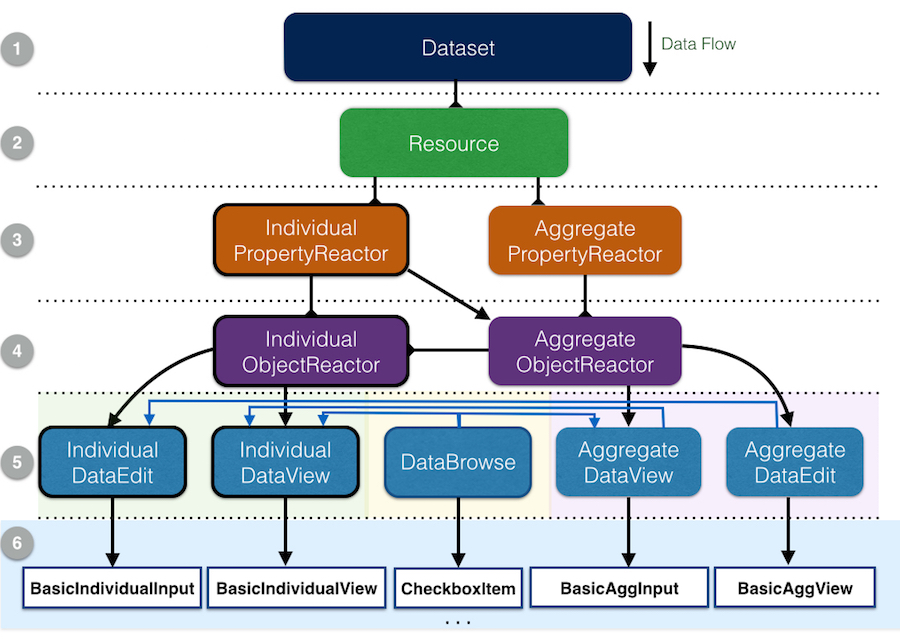
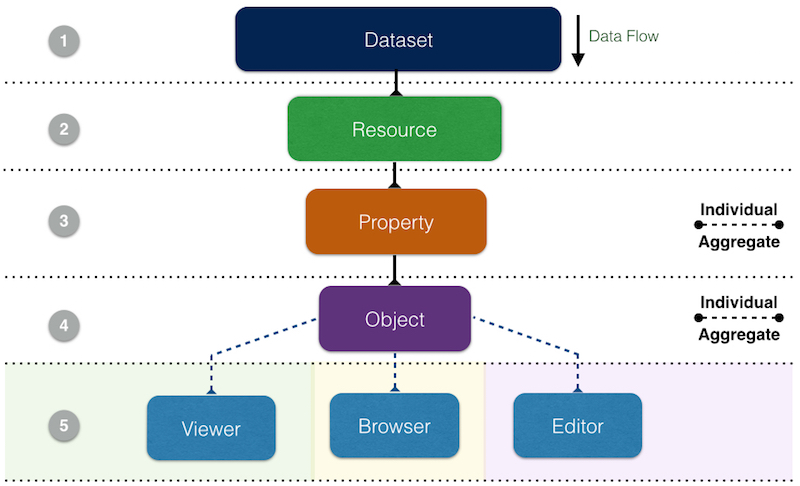
started new changes

diff --git a/docs/architecture.html b/docs/architecture.html
@@ -17,7 +17,7 @@ LD-R follows the best practices for single directional data flow proposed by <a 
 <br/>
 <div>
     <h4>
-        LD-R consists of 6 main component layers:
+        LD-R consists of 5 main component layers:
     </h4>
     <div class="ui divided list">
         <div class="item">
@@ -73,22 +73,10 @@ LD-R follows the best practices for single directional data flow proposed by <a 
               <div class="header ui circular labels">
                     <a class="ui label">
                       5
-                  </a> View/Edit/Browse Selector
+                  </a> Viewer/Editor/Browser
               </div>
             <div class="description">
                 The task of this layer is to select the right component to view, edit or browse object value(s). It will be the hub for connecting new components to our platform.
-            </div>
-          </div>
-        </div>
-        <div class="item">
-          <div class="content">
-              <div class="header ui circular labels">
-                    <a class="ui label">
-                      6
-                  </a> View/Edit/Browse
-              </div>
-            <div class="description">
-                This layer is responsible for the final presentation of the components. It will be the terminal for user-generated components.
             </div>
           </div>
         </div>

diff --git a/docs/configFacets.html b/docs/configFacets.html
@@ -30,7 +30,7 @@ Config: Facets
     </tr>
 </table>
 <p>
-    After defining the above list of facets, users can define specific configs for each facet property by using the URI of the property. These configs are similar to normal <a href="/docs/configProperties.html">properties config</a> and can overwrite them in the faceted browser. Main facets configs are as following:
+    After defining the above list of facets, users can define specific configs for each facet property by using the URI of the property. These configs are similar to normal <a href="/docs/configReactors.html">reactors config</a> and can overwrite them in the faceted browser. Main facets configs are as following:
 </p>
 <table class="ui celled table">
   <thead>
@@ -42,8 +42,8 @@ Config: Facets
   </thead>
   <tbody>
     <tr>
-      <td class="warning">browserViewer</td>
-      <td> Specifies which view component to use to render the values of a facet property.</td>
+      <td class="warning">objectBrowser</td>
+      <td> Specifies which browser component to use to render the values of a facet property.</td>
       <td>['TwoLetterCountryView']</td>
     </tr>
     <tr>

diff --git a/index.html b/index.html
@@ -6,8 +6,8 @@ path: index.html
 
 <div class="page-header">
   <h1 class="ui dividing header">Linked Data Reactor</h1>
+  <img class="ui image animated centered bounceIn" src="/assets/img/ldr.jpg" alt="ld-reactor" />
   <p>
-      <img class="ui left floated image animated bounceIn" src="/assets/img/ld-reactor.gif" alt="ld-reactor" />
       Linked Data Reactor (LD-Reactor or LD-R) is a framework to develop <b>reactive</b> and <b>reusable</b> User Interface components for <b>Linked Data applications</b>. LD-Reactor utilizes Facebook's <a href="https://facebook.github.io/react/">ReactJS</a> components, <a href="https://facebook.github.io/flux">Flux</a> architecture and Yahoo!'s <a href="http://fluxible.io/">Fluxible</a> framework for isomorphic Web applications.
       It also exploits <a href="http://semantic-ui.com/"> Semantic-UI </a> framework for flexible UI themes.
       LD-Reactor aims to apply the idea of component-based application development into <a href="http://www.w3.org/RDF/">RDF</a> data model hence enhancing current user interfaces to view, browse and edit <a href="http://linkeddata.org/">Linked Data</a>.

diff --git a/docs/quickstart.html b/docs/quickstart.html
@@ -20,10 +20,13 @@ Quick Start
 
 <h2>
 <a id="configuration" class="anchor" href="#configuration" aria-hidden="true"><span class="octicon octicon-link"></span></a>Configuration</h2>
+<p>Fill in general settings for your application at <code class="ui label">configs/general.js</code>.</p>
 
 <p>Fill in appropriate values for server port, URLs of your SPARQL endpoint and DBpedia lookup service at <code class="ui label">configs/server.js</code>.</p>
 
-<p>Fll in appropriate settings for your UI reactors at <code class="ui label">configs/reactor.js</code>.</p>
+<p>Fill in appropriate settings for your UI reactors at <code class="ui label">configs/reactor.js</code>.</p>
+
+<p>Fill in appropriate settings for the faceted browser at <code class="ui label">configs/facets.js</code>.</p>
 
 <h2>
 <a id="run-in-production-mode" class="anchor" href="#run-in-production-mode" aria-hidden="true"><span class="octicon octicon-link"></span></a>Run in Production Mode</h2>

diff --git a/docs/configGeneral.html b/docs/configGeneral.html
@@ -36,11 +36,6 @@ Config: General
       <td>['http://dbpedia.org']</td>
     </tr>
     <tr >
-      <td class="positive">maxNumberOfResourcesOnPage</td>
-      <td>Maximum number of resources on page.</td>
-      <td>[20]</td>
-    </tr>
-    <tr >
       <td class="positive">enableAuthentication</td>
       <td>If set to '1', will prevent access to datasets unless user is registered and logged in to the system.</td>
       <td>0</td>
@@ -61,9 +56,9 @@ Config: General
       <td>0</td>
     </tr>
     <tr >
-      <td class="positive">dynamicResourceDomain</td>
-      <td>Used as domain name when creating random resource URIs.</td>
-      <td>http://example.com</td>
+      <td class="positive">baseResourceDomain</td>
+      <td>The domain name under which basic dynamic resources and user resources will be defined.</td>
+      <td>http://ld-r.org</td>
     </tr>
     <tr >
       <td class="positive">enableLogs</td>

diff --git a/_layouts/default.html b/_layouts/default.html
@@ -51,9 +51,9 @@
                   <div class="item">
                     Configs
                     <div class="menu">
-                        <a class="item" href="/docs/configServer.html" data-section="configServer">Server</a>
                         <a class="item" href="/docs/configGeneral.html" data-section="configGeneral">General</a>
-                        <a class="item" href="/docs/configProperties.html" data-section="configProperties">Properties</a>
+                        <a class="item" href="/docs/configServer.html" data-section="configServer">Server</a>
+                        <a class="item" href="/docs/configReactors.html" data-section="configReactors">Reactors</a>
                         <a class="item" href="/docs/configFacets.html" data-section="configFacets">Faceted Browser</a>
                     </div>
                   </div>

diff --git a/docs/configReactors.html b/docs/configReactors.html
@@ -1,12 +1,12 @@
 ---
 layout: default
-title: Config | Properties
-section: configProperties
-path: docs/configProperties.html
+title: Config | Reactors
+section: configReactors
+path: docs/configReactors.html
 ---
 
 <h1 class="ui dividing header">
-Config: Properties
+Config: Reactors
 </h1>
 <p>
     Properties config are defined per graph. The 'generic' property config will be used if no specific config is defined for a graph.
